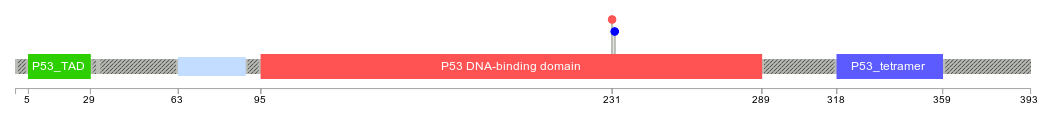
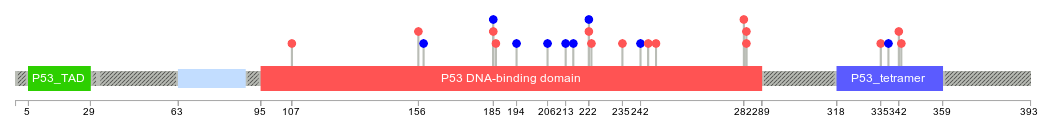
made changes to regex, made color changes for non-synonymous vs synonymous change, modified struct for Tick

diff --git a/CHANGES.md b/CHANGES.md
@@ -1,0 +1,5 @@
+Added new field to Tick struct for color change.  Fixed regex so it can actually capture three letter or one letter amino acid annotations.  Turns lollipop red for non-synonymous, blue for synonymous.
+
+For synonymous mutations the format is reference amino acid then amino acid number.  For non-synonymous it is reference amino acid then amino acid number then alternate amino acid.  Like so:
+	non-syn: E234W
+	syn: E234
